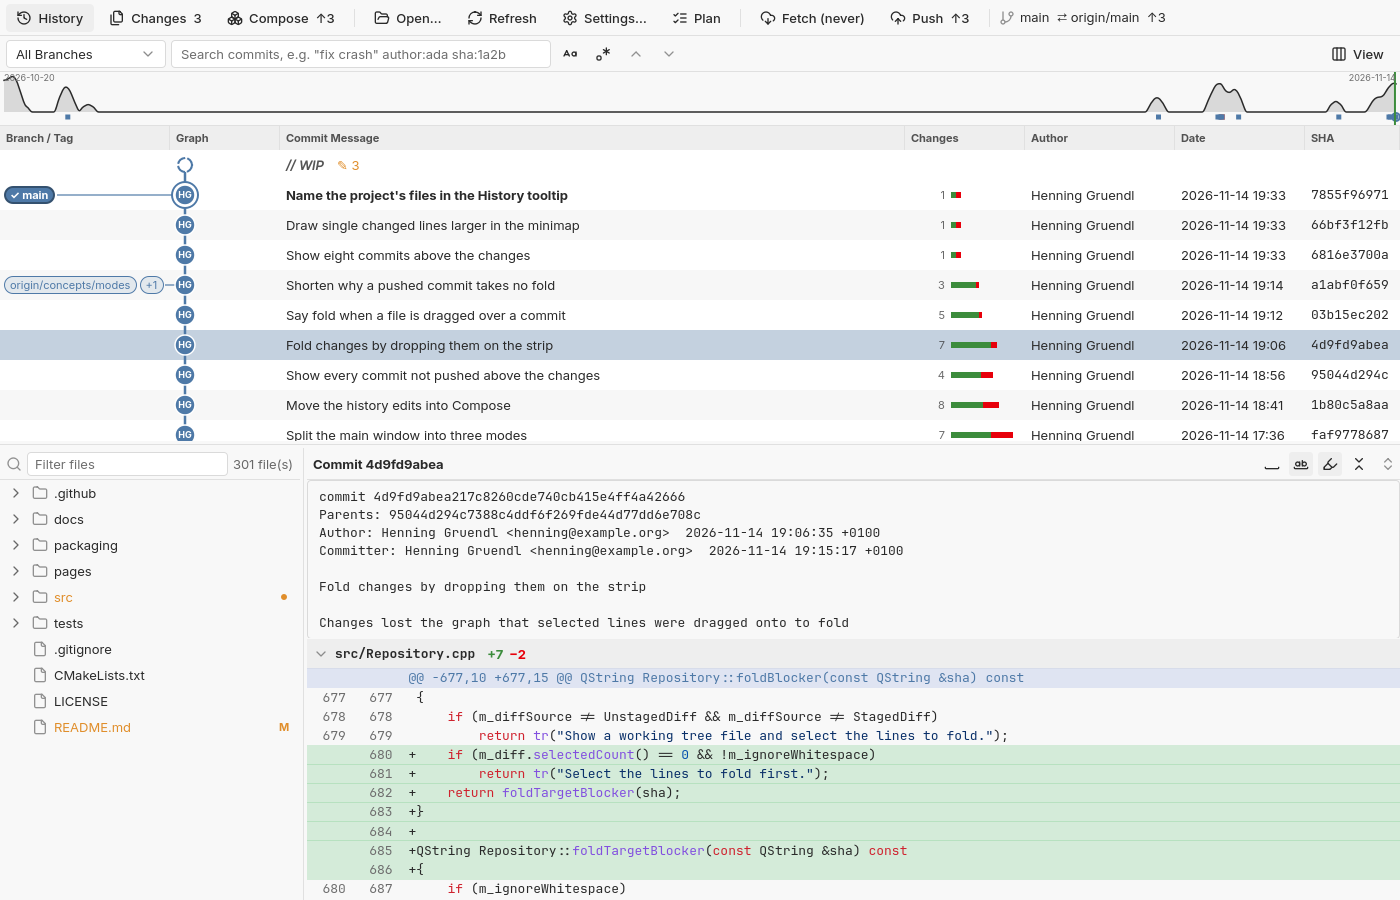
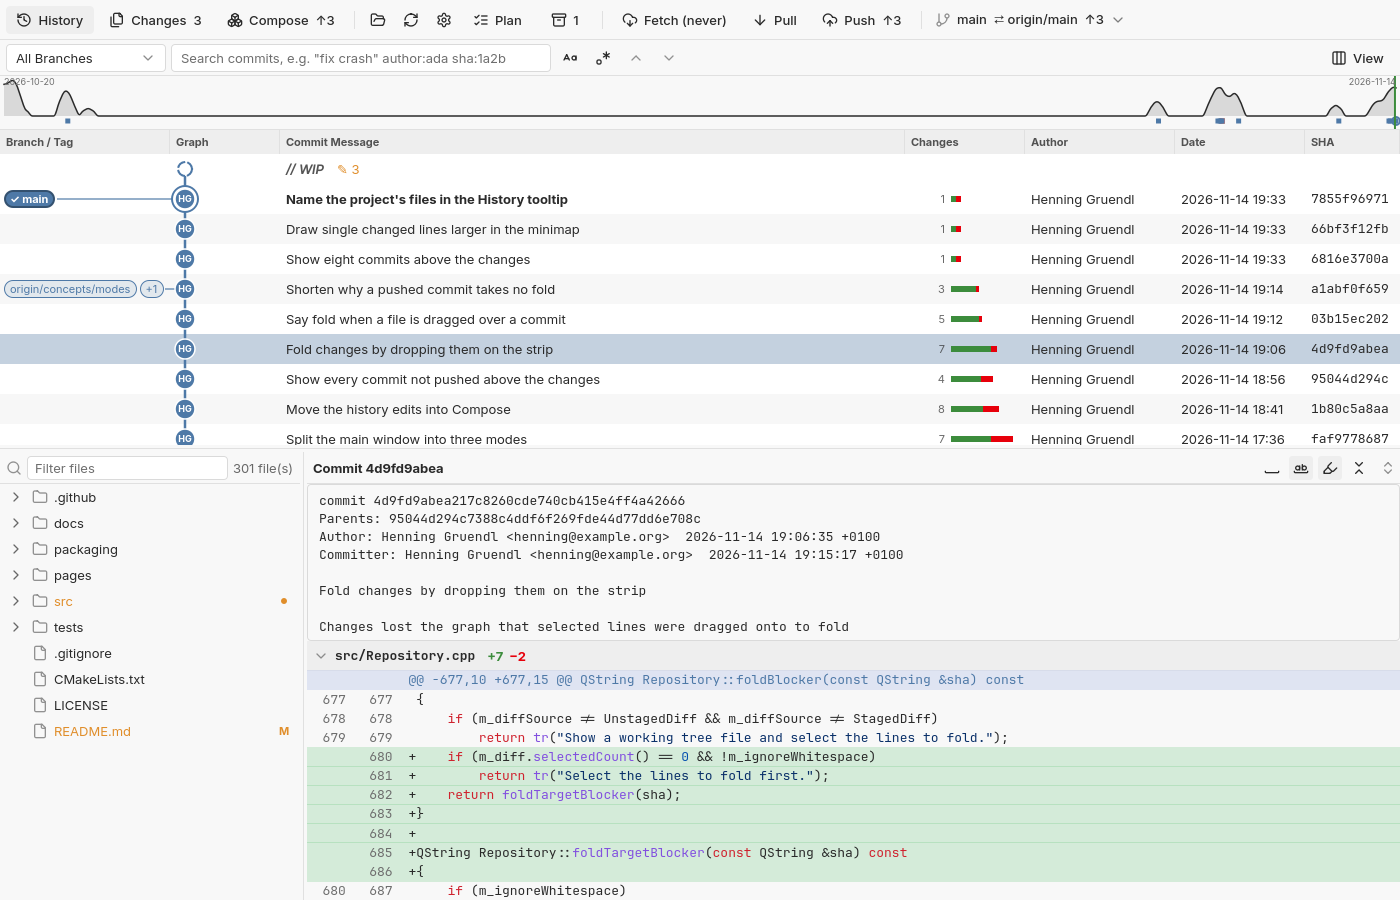
Describe everyday git work in the README and site
The README and the site described committing, folding, editing and
composing, but not what igitt does now besides: branches and tags,
pulling, merging and rebasing, discarding and stashing, picking,
reverting, resetting and comparing commits, the repository's remotes,
worktrees, submodules and patches, and bisecting; nor that a file's
history shows below the graph.

The README has a section for each, says what cannot be planned, and how
a stopped merge or rebase goes on; the site lists them. The screenshots
show the tool bar as it is now, with Pull, the stashes and the
repository's menu.

Changed region(s): [[0.0, 0.0, 1.0, 0.84], [0.215, 0.6533, 1.0, 0.9956]]

diff --git a/pages/index.html b/pages/index.html
@@ -125,8 +125,12 @@
   <ul class="features">
     <li>Explore, commit and rework in three modes: History, Changes and Compose.</li>
     <li>Browse the history of every branch as a graph and search it.</li>
-    <li>Step through every revision of a file in the time-lapse view, each line blamed, and see its whole history flow from revision to revision.</li>
-    <li>Stage and commit single lines, hunks or files.</li>
+    <li>Step through every revision of a file below the history, each line blamed and its commit picked in the graph, and see its whole history flow from revision to revision.</li>
+    <li>Stage and commit single lines, hunks or files; discard them, or stash them away.</li>
+    <li>Fetch, pull, merge and rebase; continue or abort what stops at conflicts.</li>
+    <li>Make, switch, rename and delete branches; make, push and delete tags.</li>
+    <li>Cherry-pick, revert and reset to a commit, compare any two, and bisect for the one that broke something.</li>
+    <li>Clone or start a repository, and keep its remotes, worktrees and submodules; save and apply patches.</li>
     <li>Drag changes onto a commit not pushed yet to fold them in, with a suggestion where they belong.</li>
     <li>Reword, move, squash and drop commits like <code>git rebase -i</code>, without touching the working tree.</li>
     <li>Compose several commits at once: drag changes, or single lines of them, into groups, fold them into commits not merged yet, or take them out again.</li>

diff --git a/README.md b/README.md
@@ -83,7 +83,8 @@ The window has a mode for each job, picked at the left of the tool bar or
 with Ctrl+1, Ctrl+2 and Ctrl+3:
 
 - **History** explores, as gitk does: the commit graph above, and below
-  it the project's files beside the diff of the commit or file picked.
+  it the project's files beside the diff of the commit picked, or the
+  history of the file picked.
 - **Changes** commits, as git gui does: the changed files and the commit
   form beside their diff, under a strip of the commits not pushed yet.
   Changes are folded into those commits by dropping them on the strip.
@@ -111,20 +112,27 @@ jump. The search takes `author:`, `message:` and `sha:`, quoted phrases,
 and optional case-sensitive or regular-expression matching; Enter and
 Shift+Enter jump between matches. The scope selector limits the graph to
 the current branch. Beside the diff, the project's files can be filtered
-by name; clicking one shows it, double-clicking opens its time-lapse.
+by name.
+
+A file picked there shows its history below the graph instead of the
+diff (see Time-lapse view), and the two go along: the graph dims the
+commits that left the file alone, a revision picked selects its commit,
+and a commit picked shows the file as it was then. The file's tool bar
+opens it in a window of its own, or closes it for the diff again.
 
 ## Time-lapse view
 
-Open a file's Time-lapse View from the project's files in the History
-mode (double-click a file of the project tree, or filter it by name
-first), or right-click a file in the change lists or a file header in
-any diff. It is modelled on Perforce's: a slider through every revision
+Pick a file in the History mode's tree, or choose Time-lapse from a
+file's menu in the change lists or a file header in any diff: it shows
+below the graph, or in a window of its own. It is modelled on
+Perforce's: a slider through every revision
 of the file (following renames), and the file as it was at that revision
 with each line blamed to the revision that last changed it, shaded by
 age. The lines the revision added are green, the ones it edited orange,
 and the ones it deleted red and struck through; clicking a line's
 revision jumps there. The arrow keys step through the revisions, and
-Play animates them. A minimap right of the code shows the whole file
+Play animates them; the lines in sight stay in sight, where the changes
+between the revisions put them. A minimap right of the code shows the whole file
 with the revision's changes in the same colors and the lines in sight;
 click or drag it to scroll.
 
@@ -132,7 +140,9 @@ Switch on **Flow** to see the file's whole history as a Sankey diagram.
 Each revision is a node as long as the file was then, line 1 at the top.
 Between two nodes, kept lines flow in gray from their old place to their
 new one, edited lines in orange; removed lines narrow in red to where
-they went, added lines widen in green from where they came. Click a node
+they went, added lines widen in green from where they came. A change
+belongs to the revision on the right, which made it: its bands take
+their color towards it, and its bar shows its own changes. Click a node
 to show that revision; on the current one, a marker shows the lines in
 sight in the code, and clicking or dragging along it scrolls there. The
 wheel scrolls through the revisions, Ctrl+wheel zooms.
@@ -141,7 +151,7 @@ wheel scrolls through the revisions, Ctrl+wheel zooms.
 
 ![The time-lapse of Repository.h at the revision that moved git onto a background thread](docs/screenshots/timelapse.png)
 
-## Fetch and push
+## Fetch, pull and push
 
 **Fetch** fetches the current branch's remote (all remotes without an
 upstream) and prunes deleted branches; the button says when it last ran.
@@ -152,6 +162,10 @@ that adds Change-Id, or Gerrit's SSH port, or chosen in Settings, where
 the review branch can be set too. Gerrit's change links are shown after
 pushing. A rejected push offers a force-push that uses
 `--force-with-lease`, so it only replaces what was last fetched.
+
+**Pull**, beside it, shows how far the upstream is ahead and runs `git
+pull`: it merges the upstream, or rebases onto it, as `pull.rebase`,
+`branch.<name>.rebase` and `pull.ff` say.
 
 On GitHub and GitLab, recognized by the remote's host name (self-hosted
 servers by other names are listed in Settings), the current branch's pull
@@ -164,8 +178,32 @@ merge request push options, or opens a pull request with `gh pr create`
 after pushing to GitHub.
 
 igitt cannot answer password prompts: SSH runs in batch mode, so keys
-need to be in ssh-agent, and HTTPS needs a credential helper. Both
-buttons are off while planning, and Push during a merge or rebase.
+need to be in ssh-agent, and HTTPS needs a credential helper. The
+buttons are off while planning, and Pull and Push during a merge or
+rebase.
+
+## Branches and tags
+
+The branch in the tool bar opens a switcher: the local branches, then
+the remote-tracking ones, filtered by what is typed, Enter switching to
+the first. A remote-tracking branch switched to makes a local one that
+tracks it. Switching keeps the uncommitted changes where git can carry
+them over, and else leaves everything as it is and says which files are
+in the way. A right-click on a branch there, or on its label in the
+graph, switches to it, renames it or deletes it; a double-click on a
+label switches too. A label also merges its branch into the current
+one, rebases the current one onto it, makes a remote-tracking branch
+the current one's upstream, or compares it with the current branch.
+
+A commit's menu in History makes a branch there, switched to unless
+unticked, or a tag, annotated when it has a message. Names are checked
+as git checks them, and against those taken. A tag's label pushes it to
+the upstream's remote, or deletes it.
+
+Deleting a branch asks for its name to be typed again: nothing here
+brings it back, only the reflog. One that is not merged is deleted only
+when that is ticked too. Branches and tags cannot be planned, and are
+off while planning.
 
 ## Resolving conflicts
 
@@ -177,6 +215,10 @@ choices and can be edited before **Save and Mark Resolved** writes and
 stages it. Files that cannot be merged line by line (binary, or deleted
 on one side) offer keeping one side instead. Folds and plans wait until
 the merge, rebase or cherry-pick is finished.
+
+A merge, rebase, cherry-pick or revert that stops at conflicts shows a
+banner: once the conflicts are resolved and staged, **Continue** goes on
+with it, and **Abort** puts everything back as it was.
 
 ![The merge tool with both sides of a conflict taken](docs/screenshots/merge-tool.png)
 
@@ -213,6 +255,18 @@ header for the whole hunk) and stage or unstage the selection, or
 right-click a line for Stage Hunk and Stage Line. Double-click a file, or
 click its status badge, to stage or unstage all of it.
 
+## Discarding and stashing
+
+A file's unstaged changes are discarded from its menu in the change
+lists, an untracked file deleted; the lines selected in the unstaged
+diff from the diff's tool bar. Nothing keeps what is discarded, so it
+asks first; staged changes stay.
+
+The stash button in the tool bar, with how many there are, stashes the
+changes under a message, untracked files too if ticked, and lists the
+stashes: each applied again and kept, popped, or dropped, which asks
+first.
+
 ## Plan mode
 
 With **Plan** switched on, write actions (staging, unstaging, commit,
@@ -229,6 +283,10 @@ exact. **Execute** therefore runs nothing again: it publishes the reviewed
 result, moving HEAD with `git update-ref` and replacing the index under
 git's own `index.lock`. It refuses, changing nothing, if HEAD or the index
 were changed by anything else since planning began.
+
+Branches, tags, pulls, merges and rebases, discarding, stashes,
+cherry-picks, reverts, resets and bisecting are not planned: they are
+off while planning, and say so.
 
 Commit hooks (pre-commit, prepare-commit-msg, commit-msg) run when a
 commit is planned, so the plan shows the message they produce, Change-Id
@@ -275,6 +333,18 @@ instead.
 Not supported yet: merge commits between the target and HEAD, and moving
 other branches that point into the rewritten range (like `rebase
 --update-refs`).
+
+## Picking, reverting, resetting and comparing
+
+A commit's menu in History picks it onto the current branch, reverts it
+with a new commit, or resets the current branch to it; a merge commit is
+picked or reverted by its first parent's side. Resetting asks whether to
+keep what the later commits changed staged, unstaged, or to throw it
+away with every uncommitted change, which turns the button red. A
+commit the branch has already is not picked again.
+
+The same menu compares the commit with the one on display, and saves it
+as a patch, as `git format-patch` writes it.
 
 ## Editing the history
 
@@ -345,6 +415,24 @@ change pushed only for review, to Gerrit's `refs/for`, is on no remote
 branch and can be changed, which makes a new patch set. Pinning a group
 keeps it in sight at the side while the board scrolls back through the
 history. In plan mode, commits and moves go into the plan.
+
+## The repository
+
+The folder button in the tool bar is a menu for the repository: open
+one, clone one into a folder of its name, or make a new one, each opened
+once there; its remotes, each renamed, pointed elsewhere or removed, and
+new ones; its worktrees, each opened here or removed, and new ones on a
+new or an existing branch; updating its submodules, where there are
+any; and applying a patch, as a commit when `git format-patch` wrote it
+(undone whole if it does not apply), else to the working tree. Removing
+a remote or a worktree asks first.
+
+## Bisecting
+
+A commit's menu marks it good or bad for `git bisect`, which starts a
+bisection if there is none. While bisecting, a banner asks whether the
+commit checked out is good or bad, skips it, or stops, back where it
+began; what git finds, the first bad commit at last, is its message.
 
 ## Ideas
 
